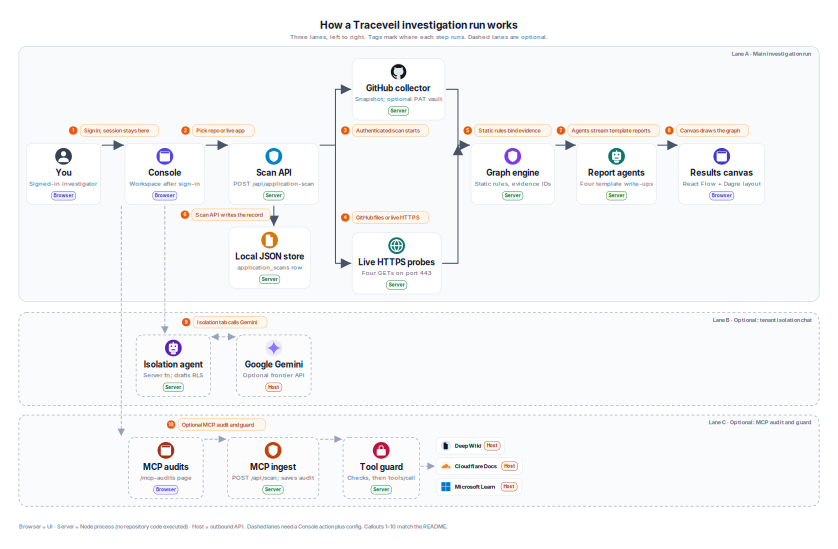
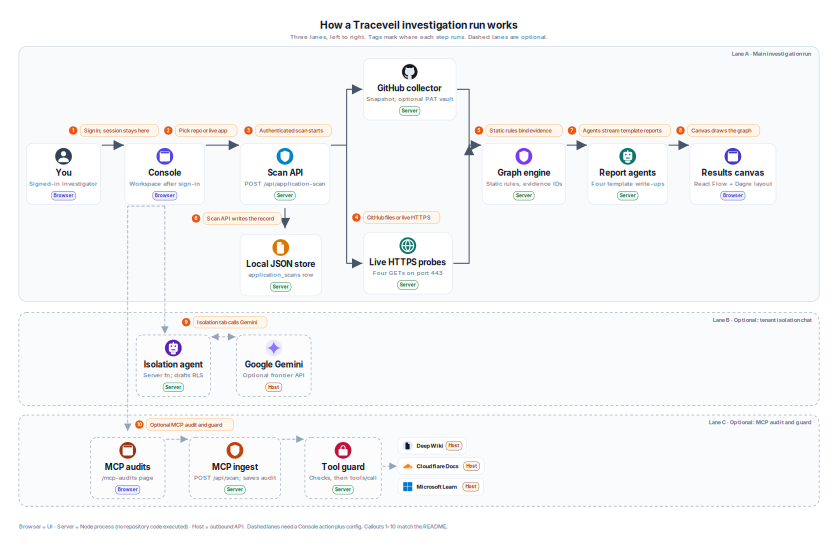
docs: fix store arrow gap, callout 3, and MCP drop routing
Stop the Scan API→JSON store arrowhead short of the file icon. Move
callout 3 beside the Console→Scan API arrow (fork keeps callout 4).
Drop the MCP lane from Console bottom-center around Isolation so the
line no longer leaves the card’s left edge.

diff --git a/docs/architecture/generate.py b/docs/architecture/generate.py
@@ -37,6 +37,9 @@ W, H = 1800, 1180
 MARGIN = 40
 TEXT_GAP = 14
 ARROW_CLEAR = 8
+# Stop arrowheads this far from a card face that holds a top icon (matches side-entry
+# breathing room once the 18px badge and marker are taken into account).
+HEAD_GAP = 14
 STROKE = 2.2
 STROKE_DASH = 1.6
 TITLE_SIZE = 18
@@ -522,7 +525,7 @@ def build() -> Scene:
     rail_a = spine_y + 4
     you = s.node_card(56, spine_y, "You", "Signed-in investigator", user_icon, "#334155", "you", "Browser")
     console = s.node_card(you.r + 52, spine_y, "Console", "Workspace after sign-in", window_icon, "#4F46E5", "console", "Browser")
-    scan = s.node_card(console.r + 52, spine_y, "Scan API", "POST /api/application-scan", scan_icon, "#0284C7", "scan", "Server")
+    scan = s.node_card(console.r + 76, spine_y, "Scan API", "POST /api/application-scan", scan_icon, "#0284C7", "scan", "Server")
     github = s.node_card(scan.r + 72, 126, "GitHub collector", "Snapshot; optional PAT vault", github_icon, "#E2E8F0", "github", "Server")
     live = s.node_card(scan.r + 72, 500, "Live HTTPS probes", "Four GETs on port 443", globe_icon, "#0F766E", "live", "Server")
     fork_r = max(github.r, live.r)
@@ -530,7 +533,7 @@ def build() -> Scene:
     agents = s.node_card(graph.r + 48, spine_y, "Report agents", "Four template write-ups", robot_icon, "#0F766E", "agents", "Server")
     canvas = s.node_card(agents.r + 48, spine_y, "Results canvas", "React Flow + Dagre layout", window_icon, "#4338CA", "canvas-node", "Browser")
 
-    store = s.node_card(scan.x, scan.b + 48, "Local JSON store", "application_scans row", file_icon, "#D97706", "store", "Server")
+    store = s.node_card(scan.x, scan.b + 64, "Local JSON store", "application_scans row", file_icon, "#D97706", "store", "Server")
 
     # ----- Lane B nodes (hang under Console) -----
     isolation = s.node_card(
@@ -548,10 +551,11 @@ def build() -> Scene:
         True,
     )
 
-    # ----- Lane C nodes (hang under Console; drop lands on MCP audits) -----
+    # ----- Lane C nodes (Console sidebar → /mcp-audits; drop lands on that page) -----
     mcp_y = 940
+    mcp_drop_x = isolation.x - 18
     mcp_page = s.node_card(
-        console.x + 8, mcp_y, "MCP audits", "/mcp-audits page", window_icon, "#9A3412", "mcp-page", "Browser", True
+        mcp_drop_x - 80, mcp_y, "MCP audits", "/mcp-audits page", window_icon, "#9A3412", "mcp-page", "Browser", True
     )
     mcp_scan = s.node_card(
         mcp_page.r + 52, mcp_y, "MCP ingest", "POST /api/scan; saves audit", scan_icon, "#C2410C", "mcp-scan", "Server", True
@@ -566,10 +570,18 @@ def build() -> Scene:
 
     # ----- Lane A arrows (rail along the top of the spine cards so callouts sit just above) -----
     s.arrow([(you.r + 3, rail_a), (console.x - 3, rail_a)], "a1")
-    s.callout_above(you.r, console.x, rail_a, 1, "Sign in; session stays here", "c1", "a1")
+    c1 = s.callout_above(you.r, console.x, rail_a, 1, "Sign in; session stays here", "c1", "a1")
 
     s.arrow([(console.r + 3, rail_a), (scan.x - 3, rail_a)], "a2")
-    s.callout_above(console.r, scan.x, rail_a, 2, "Pick repo or live app", "c2", "a2")
+    c2_text = "Pick repo or live app"
+    c2_w, c2_h = s.callout_size(c2_text)
+    c3_text = "Authenticated scan starts"
+    c3_w, c3_h = s.callout_size(c3_text)
+    # c2 left of the Console→Scan stroke, c3 right of it — neither on the line nor on the fork.
+    c3_x = (scan.x - 3) + 8
+    c2_x = min(c3_x - 8 - c2_w, max(c1.r + 8, (console.r + 3) - 8 - c2_w))
+    s.callout(c2_x, rail_a - 14 - c2_h, 2, c2_text, "c2", "a2")
+    s.callout(c3_x, rail_a - 14 - c3_h, 3, c3_text, "c3", "a2")
 
     fork_x = (scan.r + github.x) / 2
     s.arrow(
@@ -582,7 +594,6 @@ def build() -> Scene:
         "a-fork-gh",
     )
     s.arrow([(fork_x, rail_a), (fork_x, live.cy), (live.x - 3, live.cy)], "a-fork-live")
-    s.callout_beside(fork_x, github.b + 10, spine_y - 10, 3, "Authenticated scan starts", "c3", "a-fork-gh", "right")
     s.callout_beside(fork_x, scan.b + 10, live.y - 10, 4, "GitHub files or live HTTPS", "c4", "a-fork-live", "right")
 
     join_x = (fork_r + graph.x) / 2
@@ -600,7 +611,7 @@ def build() -> Scene:
     c5_w, _ = s.callout_size(c5_text)
     s.callout(join_x + 8, rail_a - 14 - 30, 5, c5_text, "c5", "a-join-gh")
 
-    s.arrow([(scan.cx, scan.b + 3), (scan.cx, store.y - 3)], "a-save")
+    s.arrow([(scan.cx, scan.b + 8), (scan.cx, store.y - HEAD_GAP)], "a-save")
     s.callout_beside(scan.cx, scan.b, store.y, 6, "Scan API writes the record", "c6", "a-save", "left")
 
     s.arrow([(graph.r + 3, rail_a), (agents.x - 3, rail_a)], "a-agents")
@@ -626,12 +637,14 @@ def build() -> Scene:
     )
     s.callout_above(isolation.r, gemini.x, rail_b, 9, "Isolation tab calls Gemini", "c9", "d-iso-gemini")
 
-    # ----- Lane C: short drop from Console (left of Isolation), then LTR -----
+    # ----- Lane C: from Console bottom-center (sidebar Link to /mcp-audits), around Isolation -----
     rail_c = mcp_page.y + 4
+    mcp_drop_x = mcp_page.cx
     s.arrow(
         [
-            (console.x - 8, console.b + 3),
-            (console.x - 8, mcp_page.y - 3),
+            (console.cx, console.b + 3),
+            (mcp_drop_x, console.b + 3),
+            (mcp_drop_x, mcp_page.y - HEAD_GAP),
         ],
         "d-mcp-drop",
         True,
@@ -639,7 +652,10 @@ def build() -> Scene:
     s.arrow([(mcp_page.r + 3, rail_c), (mcp_scan.x - 3, rail_c)], "d-mcp-1", True)
     s.arrow([(mcp_scan.r + 3, rail_c), (guard.x - 3, rail_c)], "d-mcp-2", True)
     s.arrow([(guard.r + 3, cloudflare.cy), (cloudflare.x - 3, cloudflare.cy)], "d-mcp-hosts", True)
-    s.callout_above(mcp_page.r, mcp_scan.x, rail_c, 10, "Optional MCP audit and guard", "c10", "d-mcp-1")
+    c10_text = "Optional MCP audit and guard"
+    c10_w, c10_h = s.callout_size(c10_text)
+    c10_x = max(mcp_page.cx + 12, (mcp_page.r + mcp_scan.x) / 2 - c10_w / 2)
+    s.callout(c10_x, rail_c - 14 - c10_h, 10, c10_text, "c10", "d-mcp-1")
 
     s.text_box(
         40,
